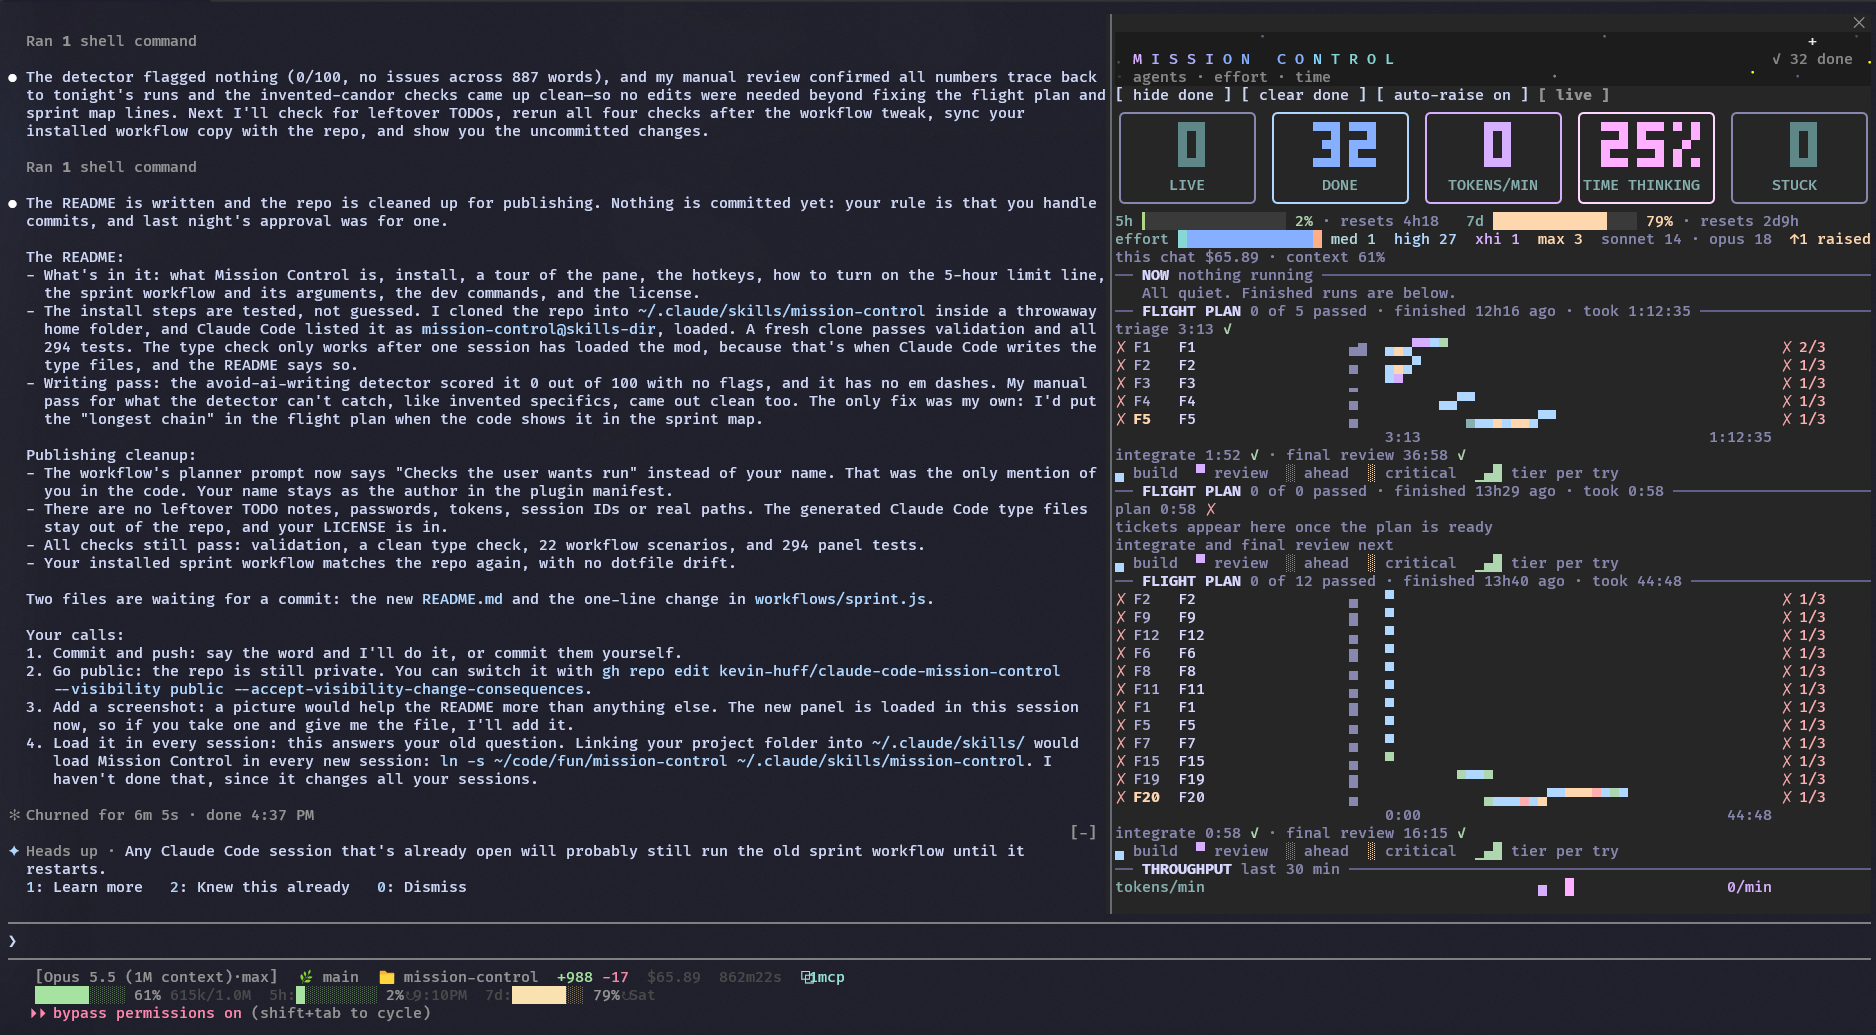
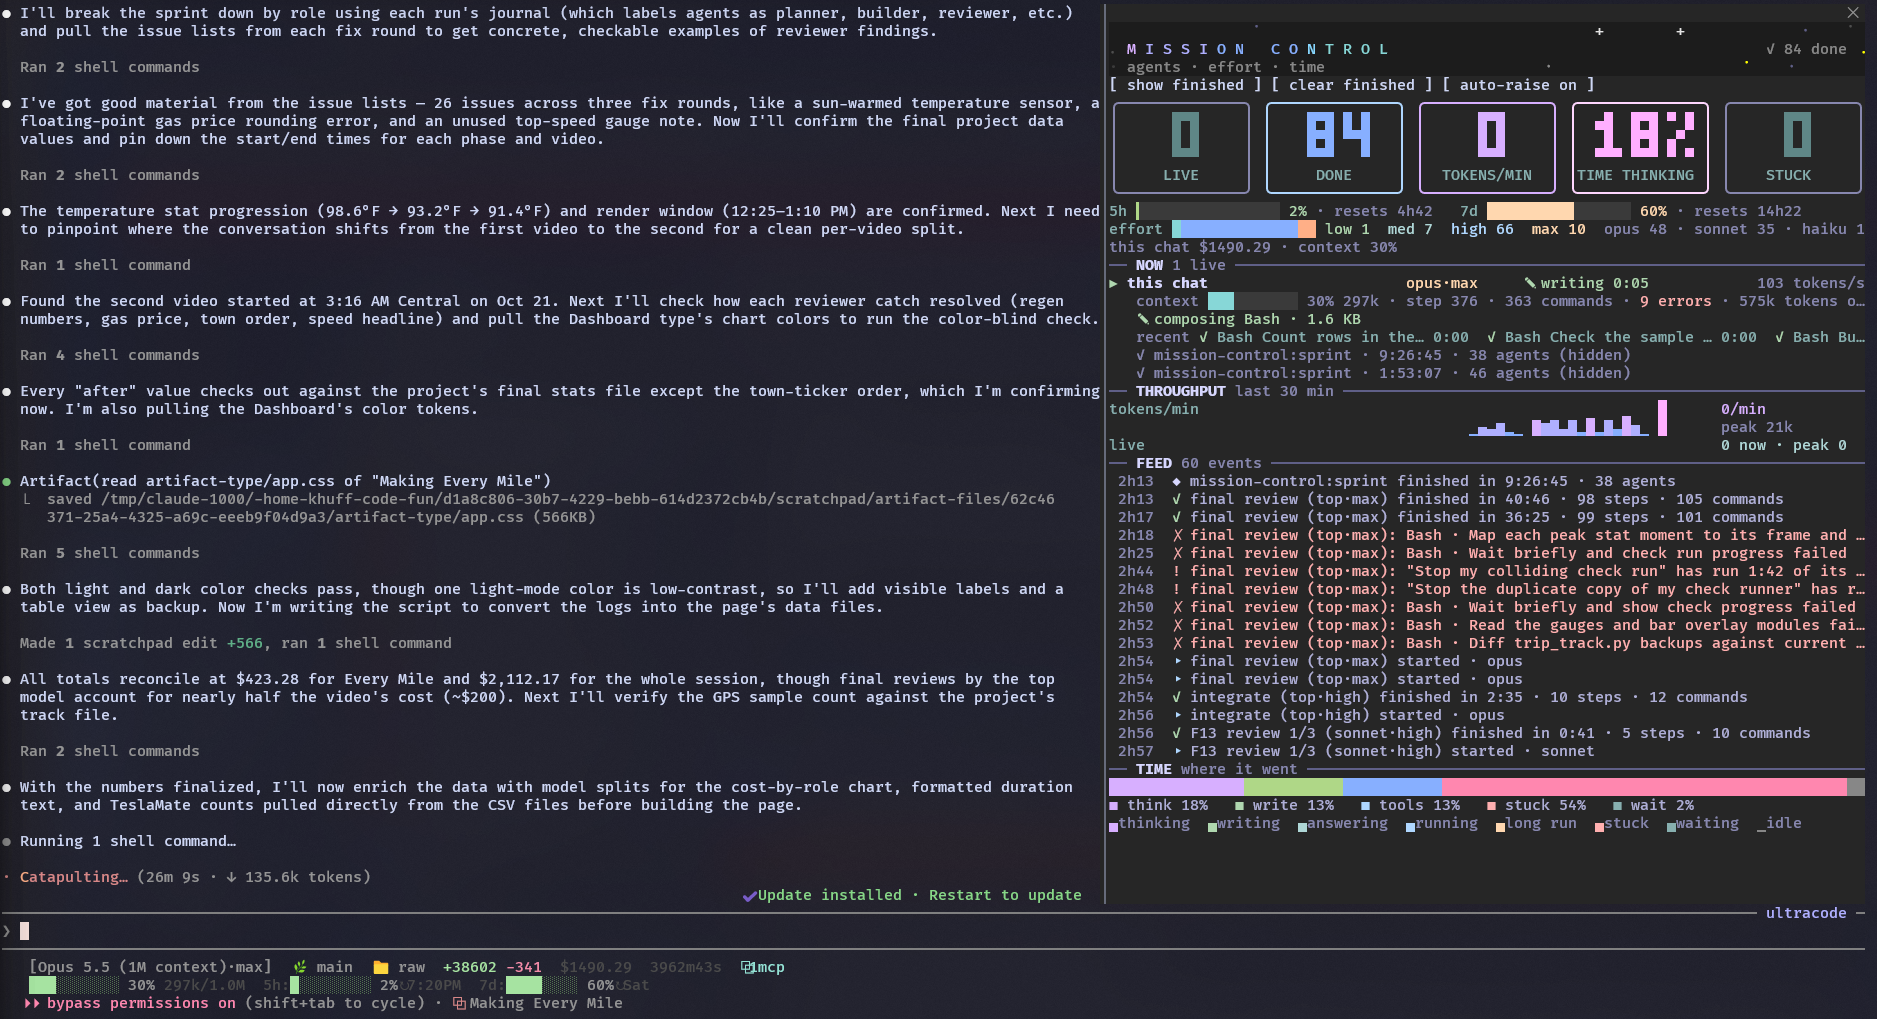
Swap in a screenshot from a long sprint
The README's screenshot now shows the pane after two sprints run
through the plugin's own sprint workflow, one of them over nine hours:
84 agents done, the effort and model mix, the feed and where the time
went. It replaces the earlier shot, which predated the journal fix.

diff --git a/README.md b/README.md
@@ -4,7 +4,7 @@ A live pane for Claude Code that shows what your subagents and workflow agents a
 
 The repo also carries the sprint workflow that Mission Control was built with and for (`workflows/sprint.js`). Much of the pane was built and fixed by that workflow running on this repo.
 
-![Mission Control docked beside a Claude Code session, showing live tiles, usage, effort and three finished sprints](docs/screenshot.png)
+![Mission Control docked beside a Claude Code session after a long sprint: live tiles, usage, the effort and model mix, the feed and where the time went](docs/screenshot.png)
 
 ## Install
 
